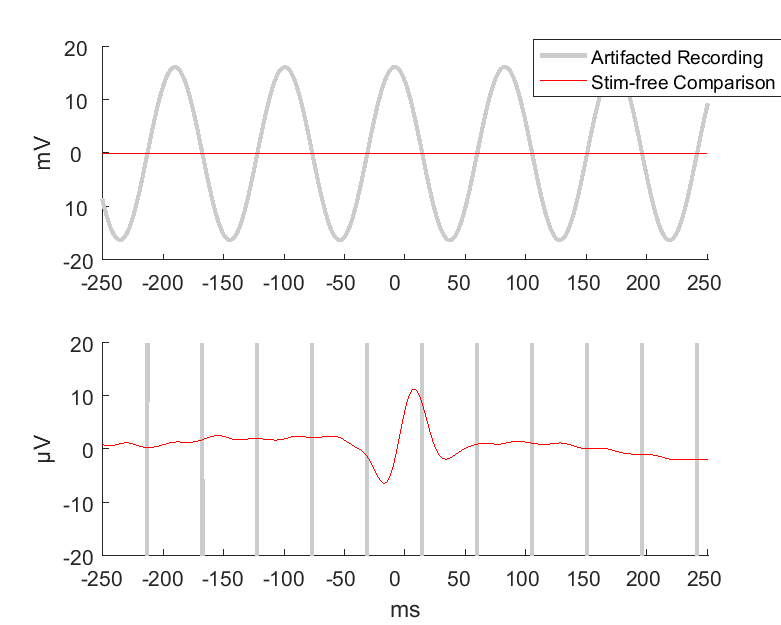
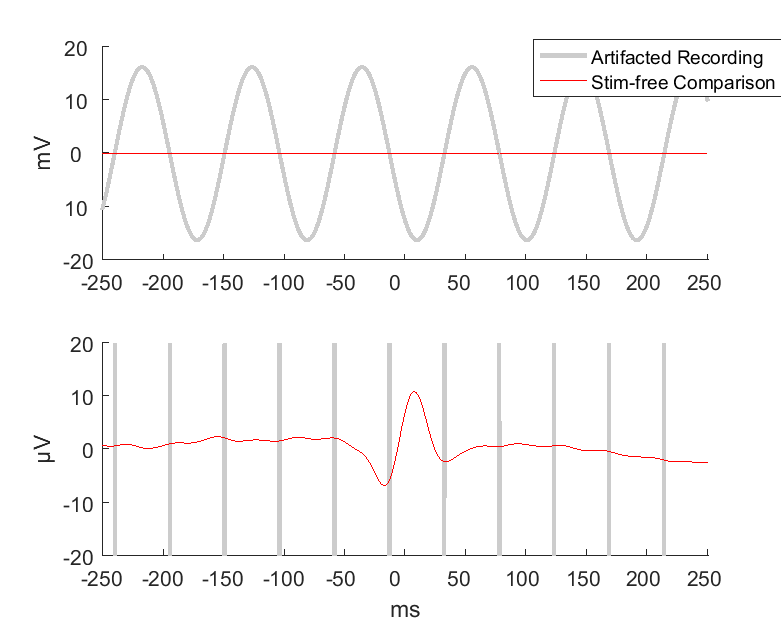
Extend adaptive PCA for random seeds and resolution parameter

diff --git a/docs/ecg_analysis.m b/docs/ecg_analysis.m
@@ -9,7 +9,7 @@ printfolder = '.\docs\img\';
 datafolder = '.\dev\data\ecg\';
 %%
 D = dir([datafolder,'*.vhdr']);
-trange = 3000;
+trange = 2000;
 
 cfg                         = [];
 cfg.trialfun                = 'ft_trialfun_general';
@@ -44,9 +44,7 @@ for hp_idx = 1 : length(HeartPeaks)
     tmp = tmp-mean(tmp);
     tru = cat(1,tru,tmp);
 end
-close all
-figure
-plot(mean(-tru,1))
+
 %
 cfg                         = [];
 cfg.trialfun                = 'ft_trialfun_general';
@@ -89,11 +87,13 @@ fprintf(1,'Finished\n')
 filt_axis       = {'Causal Uniform','Causal Linear','Causal Exponential','Causal Gaussian','Causal Automatic',...
                     'Symmetric Uniform','Symmetric Linear','Symmetric Exponential','Symmetric Gaussian','Symmetric Automatic',...
                     'Piecewise Uniform','Piecewise  Linear','Piecewise  Exponential','Piecewise Gaussian','Piecewise Automatic',...
-                    'Adaptive DFT','Adaptive PCA','Comparison Bootstrap'};
+                    'Adaptive DFT','Adaptive PCA','Stim-free Bootstrap'};
 filt_type       = {'ave','linear','exp','gauss','automatic','ave','linear','exp','gauss','automatic','ave','linear','exp','gauss','automatic'};
 sym_type        = {'causal','causal','causal','causal','causal','symmetric','symmetric','symmetric','symmetric','symmetric','piecewise','piecewise','piecewise','piecewise','piecewise'};
 inc_type        = {'dec','dec','dec','dec','dec','inc','inc','inc','inc','inc','dec','dec','dec','dec','dec'};
+%inc_type        = {'dec','dec','dec','dec','dec','dec','dec','dec','dec','dec','dec','dec','dec','dec','dec'};
 Delay           = [0 0 0 0 0,5 5 5 5 5,0 0 0 0 0];
+%Delay           = [0 0 0 0 0,0 0 0 0 0,0 0 0 0 0];
 Latency         = trange+1;
 NumberPeriods   = 10;
 %tacsFreq        = 10;
@@ -111,7 +111,7 @@ H = [];
 for trl_idx = 1 : size(trl,1)
     r = trl(trl_idx,:);
     for fidx = 1 : length(filt_type)   
-        f               = artacs.kernel.run(r,NumberPeriods,tacsFreq,Fs,sym_type{fidx},filt_type{fidx},'default',Latency,Delay(fidx),inc_type{fidx});  
+        f               = artacs.kernel.run(r,NumberPeriods,tacsFreq,Fs,sym_type{fidx},filt_type{fidx},'default',inc_type{fidx},Delay(fidx),Latency);  
 
         recover         = corr(f(toi)',e(1,toi)');     % true signal -> erp
         R(fidx,trl_idx)   = recover;   
@@ -123,7 +123,7 @@ for trl_idx = 1 : size(trl,1)
     R(fidx+1,trl_idx)   = recover;
     F(fidx+1,trl_idx,:) = utils.baseline(f,trange-500:trange-100,1);
     
-    f                   = artacs.template.stepwise(r,tacsFreq,Fs);
+    f                   = artacs.template.stepwise(r,tacsFreq,Fs,'random');
     recover             = corr(f(toi)',e(1,toi)');    % true signal -> erp
     R(fidx+2,trl_idx)   = recover;
     F(fidx+2,trl_idx,:) = utils.baseline(f,trange-500:trange-100,1);
@@ -132,24 +132,33 @@ for trl_idx = 1 : size(trl,1)
     recover             = corr(f(toi)',e(1,toi)');    % true signal -> erp
     R(fidx+3,trl_idx)   = recover;
     F(fidx+3,trl_idx,:) = utils.baseline(f,trange-500:trange-100,1);
-    
+    fprintf(')
 end
 %%
 %Efun      = @(x,prm)median(x,prm);
 Efun      = @(x,prm)mean(x,prm);
 close all
 figure
-set(gcf,'Position',[100 100 1200 900],'paperpositionmode','auto')
-for fidx = 1 : size(F,1)
-    subplot(4,5,fidx)
-    hold on    
-    plot(Efun(tru(:,toi),1)')    
-    plot(squeeze(Efun((utils.baseline(squeeze(F(fidx,:,toi)),1:200,1)'),2))')    
-    set(gca,'ylim',[-12 17])
+set(gcf,'Position',[100 100 1200 1000],'paperpositionmode','auto')
+count = 0;
+for fidx = 1:size(F,1)
+    count = count+1;
+    subplot(4,5,count)
+    hold on
+    
+    [h,p,ci] = ttest(squeeze(F(end,:,toi)));                
+    h3 = patch([1:length(ci),length(ci):-1:1],[ci(1,:),fliplr(ci(2,:))],ones(1,length(ci)*2),'facecolor',[0.8500 0.3250 0.0980],'facealpha',0.25,'edgecolor',[0.8500 0.3250 0.0980],'edgealpha',0.1);                
+    h1 = plot(mean(ci),'linewidth',1,'color',[0.8500 0.3250 0.0980]);
+    if fidx ~= 18        
+        %h1 = plot(Efun(tru(:,toi),1),'linewidth',2,'color',[0.8500 0.3250 0.0980]);
+        h2 = plot(squeeze(Efun(F(fidx,:,toi),2))','linewidth',2,'color',[0 0.4470  0.7410]);
+    end
+    set(gca,'xlim',[1 length(toi)],'xtick',[1:100:4000],'xticklabel',[(-length(toi)/2+1):100:length(toi)/2])
+    set(gca,'ylim',[-20 20],'ytick',[-1000:10:1000])
     title(filt_axis{fidx})   
 end
-h = legend('Without tacs','With Artifact Removed');
-set(h,'position',[0.05 .85 .08 .08])
+h = legend([h1,h2],'Stim-free Comparison','Artifact Removed');
+set(h,'position',[0.7 .15 .08 .08])
 %%
 %Efun      = @(x,prm)median(x,prm);
 Efun      = @(x,prm)mean(x,prm);
@@ -173,11 +182,12 @@ for fidx = [4,6,14,10,16,17]
     set(gca,'ylim',[-20 20],'ytick',[-1000:10:1000])
     title(filt_axis{fidx})   
 end
-h = legend([h1,h2],'Stim-free Comparison','Artifact Removed','95% CI');
+h = legend([h1,h2],'Stim-free Comparison','Artifact Removed');
 set(h,'position',[0.08 .84 .08 .08])
 print(gcf,[printfolder,'eva\ecg_performance.png'],'-dpng')
 %%
-smpl_num    = 200;
+clc
+smpl_num    = 100;
 koi = 0:0.01:1;
 KxR = [];
 KxA = [];
@@ -233,11 +243,11 @@ snr_dB  = 20*log(a_pwr/s_pwr)
 
 a_pwr   = max(range(trl(:,toi),2));
 s_pwr   = min(range(tru(:,toi),2));
-snr_dB  = 20*log(a_pwr/s_pwr)
+snr_dB  = 20*log(a_pwr/s_pwr);
 
 a_pwr   = min(range(trl(:,toi),2));
 s_pwr   = max(range(tru(:,toi),2));
-snr_dB  = 20*log(a_pwr/s_pwr)
+snr_dB  = 20*log(a_pwr/s_pwr);
 
 %%
 tit_set     = {'Symmetric Gaussian','Causal Uniform','Adaptive DFT'};

diff --git a/src/+artacs/+template/stepwise.m b/src/+artacs/+template/stepwise.m
@@ -1,4 +1,4 @@
-function FilteredSignal = stepwise(Signal,Freq,Fs)    
+function FilteredSignal = stepwise(Signal,Freq,Fs,PeriodResolution)    
 %% up/downsample if necessary to allow integer periods
 period          = Fs/Freq;
 resample_flag   = (period ~= int32(period));
@@ -10,12 +10,41 @@ if resample_flag %upsample signal to make period length an integer
     Fs          = period*Freq;
     Signal      = resample(Signal,Fs,trueFs);        
 end
+InitSignal  = Signal;
 
+% Select Period Starting Seeds
+if nargin < 4, PeriodResolution = 'random'; end
+if strcmpi(PeriodResolution,'default') 
+    %PeriodResolution = 100;
+    PeriodResolution = 'random';
+end
+
+if strcmpi(PeriodResolution,'random')
+    P           = period:-1:1;
+    rng('shuffle');
+    P           = datasample(P,5);
+    
+elseif isnumeric(PeriodResolution)
+    if PeriodResolution > 100, PeriodResolution  = 100; end
+    PeriodResolution = ceil(PeriodResolution*period/100);
+    P           = period:-1:1;
+    P           = P(fix(1:PeriodResolution:end));
+    if isempty(P), P = 1; end
+
+end
+
+
+F           =  [];
+for PeriodShift = P
+
+Signal              = InitSignal(PeriodShift:end-PeriodShift+1);
 % remove components until artifact power is as low as neighbouring frequencies
 ArtifactPower       = calcpower(Signal,Freq,Fs);
 BlockSignal         = signal2period(Signal,period);
 
+IterNum     = 0;
 while ArtifactPower > 1
+    IterNum     = IterNum + 1;
     BlockSignal         = removetemplate(BlockSignal);
     ReconstructedSignal = period2signal(BlockSignal);
     ArtifactPower       = calcpower(ReconstructedSignal,Freq,Fs);
@@ -23,8 +52,15 @@ end
 
 % reshape, append and detrend
 FilteredSignal = period2signal(BlockSignal);
-
-while length(FilteredSignal) < length(Signal)
+FilteredSignal = [NaN(1,PeriodShift-1),FilteredSignal,NaN(1,PeriodShift-1)];
+while length(FilteredSignal) < length(InitSignal)
+    FilteredSignal = cat(2,FilteredSignal,0);
+end
+F              = cat(1,F,FilteredSignal);
+end
+FilteredSignal = nanmean(F,1);
+%%%
+while length(FilteredSignal) < length(InitSignal)
     FilteredSignal = cat(2,FilteredSignal,0);
 end
 
@@ -33,7 +69,11 @@ if resample_flag
 end
 FilteredSignal = FilteredSignal(1:trueL);
 
+%fprintf('Ran for %2.0f Iterations\n',IterNum)
+
 end
+
+
 %%
 % remove first component of artifact modulation across periods
 function BlockSignal = removetemplate(BlockSignal)
